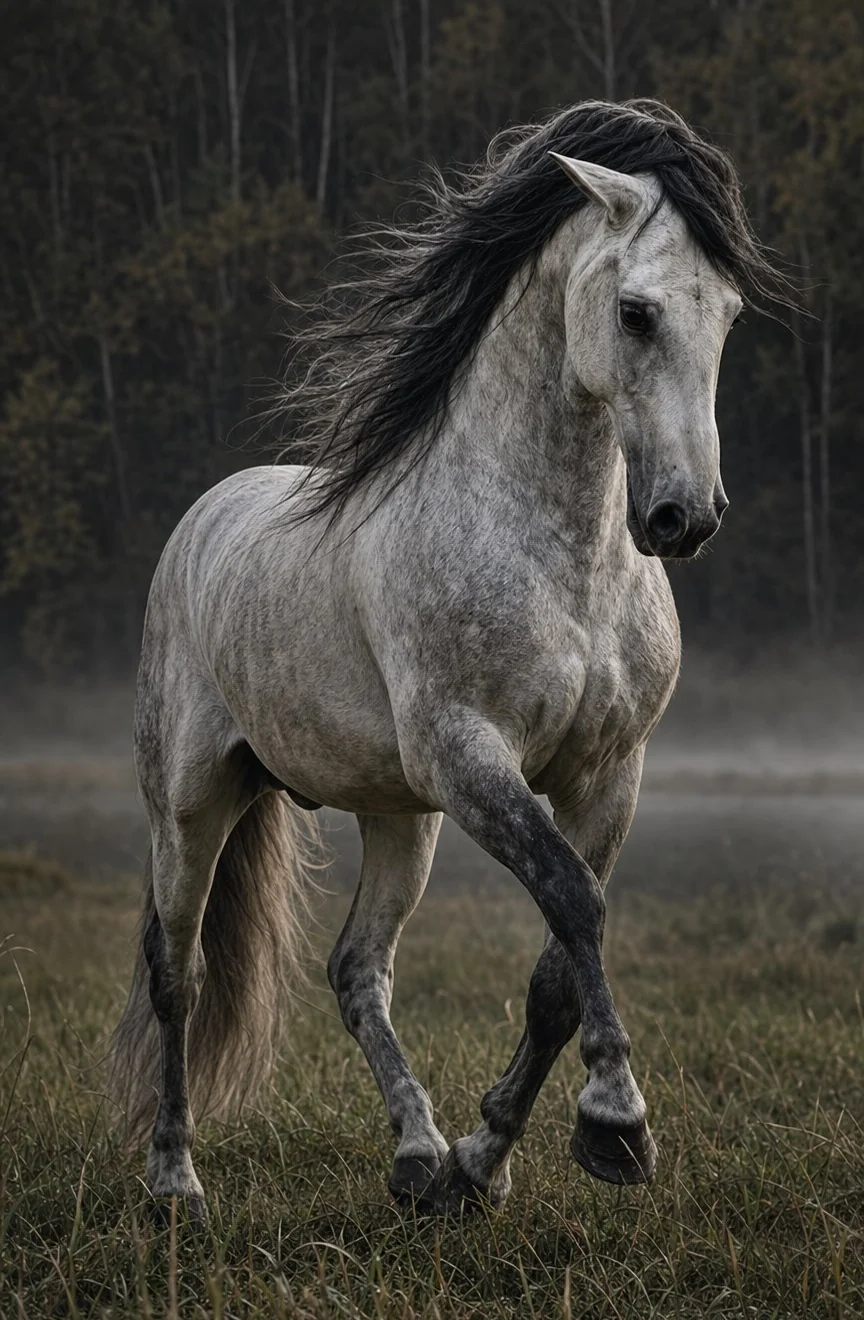
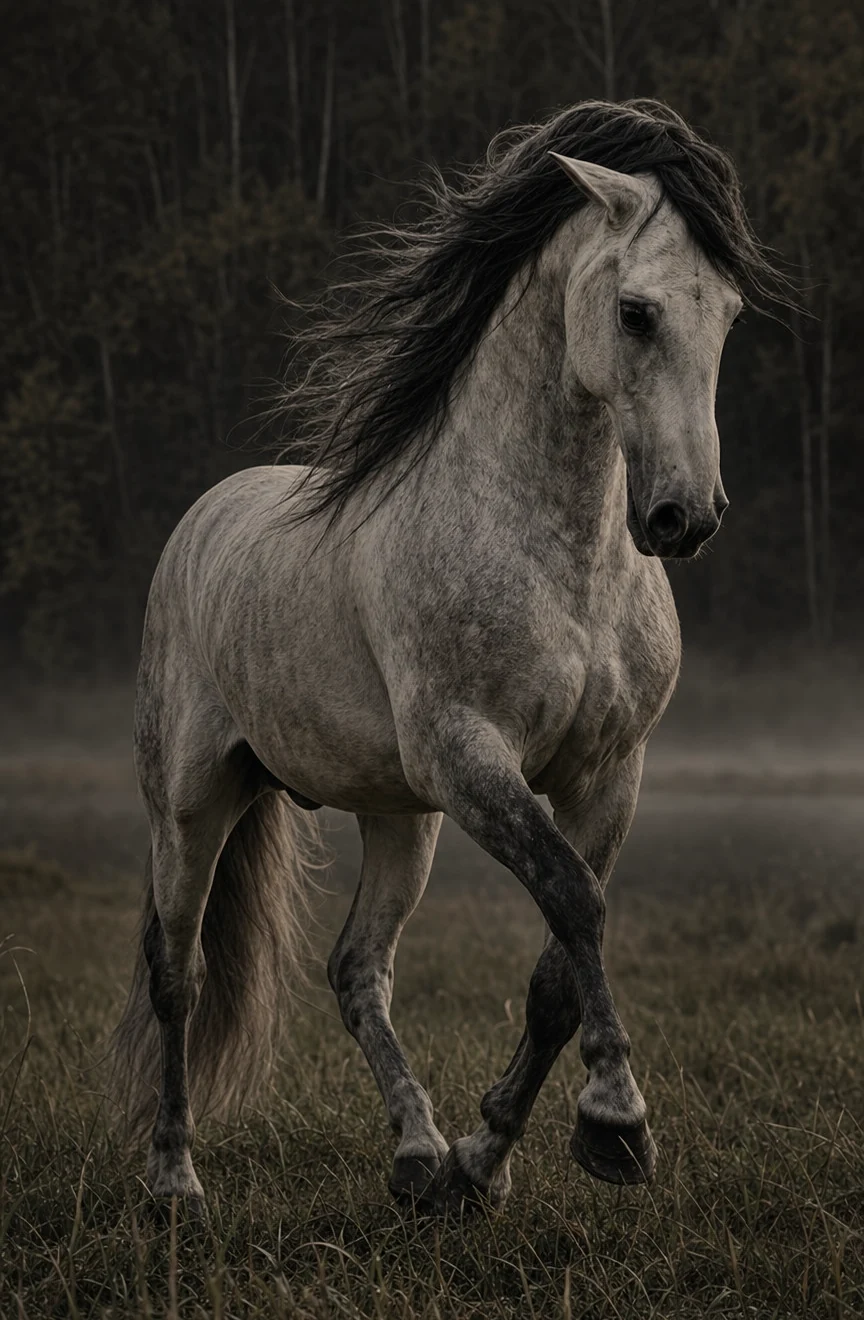
закончили

diff --git a/index.html b/index.html
@@ -305,7 +305,7 @@
           data-origin="Испанские документы, допуск в разведение"
           data-place="Свердловская область">
           <span class="horse-image-wrap">
-            <img src="assets/bucefalo-02.jpg" alt="Вороной андалузский жеребец в осеннем поле" width="1080" height="1174" loading="lazy">
+            <img src="assets/horse-aleko.webp" alt="Вороной андалузский жеребец в осеннем поле" width="939" height="1174" loading="lazy">
             <span class="corner-frame" aria-hidden="true"></span>
           </span>
           <span class="horse-card-copy">
@@ -329,7 +329,7 @@
           data-origin="Андалузская линия"
           data-place="Подмосковье">
           <span class="horse-image-wrap">
-            <img src="assets/breeding-03.jpg" alt="Буланый андалузский жеребец в поле" width="851" height="851" loading="lazy">
+            <img src="assets/horse-novilero.webp" alt="Буланый андалузский жеребец в профиль на пастбище" width="1122" height="1402" loading="lazy">
             <span class="corner-frame" aria-hidden="true"></span>
           </span>
           <span class="horse-card-copy">
@@ -353,7 +353,7 @@
           data-origin="уточняется"
           data-place="Тульская область">
           <span class="horse-image-wrap">
-            <img src="assets/breeding-02.jpg" alt="Чубарая молодая кобыла в поле" width="1000" height="1000" loading="lazy">
+            <img src="assets/horse-dalli.webp" alt="Чубарая молодая кобыла в профиль на пастбище" width="1122" height="1402" loading="lazy">
             <span class="corner-frame" aria-hidden="true"></span>
           </span>
           <span class="horse-card-copy">

diff --git a/ASSET_PROMPTS.md b/ASSET_PROMPTS.md
@@ -198,16 +198,54 @@ Avoid: fantasy, fairy-tale glow, saturated sunset, decorative frame
 
 Карточки рисуются в канве 4:5 через `object-fit: contain` на подложке-паспарту, поэтому лошадь всегда видна целиком и исходники могут быть любых пропорций. Свободное поле держим примерно до 25 процентов: если больше, надо не уменьшать лошадь, а вырезать из исходника лишнее небо и траву.
 
-Что сейчас используется: `horse-magnifico.webp` (Магнифико YAD), `bucefalo-02.jpg` (Алеко), `breeding-03.jpg` (Новилеро), `breeding-02.jpg` (Далли).
+Все четыре карточки собраны отдельными файлами `horse-*.webp`. Оригиналы не тронуты и лежат рядом.
 
-`horse-magnifico.webp` - подрезанный кадр из `stallion-motion.jpg` 864x1821. Исходник был вертикалью обойного формата: лошадь в середине, сверху деревья, снизу пустая трава. Обрезан по y 300-1620, оригинал сохранён.
+| Карточка | Файл | Размер | Из чего собран |
+|---|---|---|---|
+| Магнифико YAD | `horse-magnifico.webp` | 864x1320 | кроп `stallion-motion.jpg` по y 300-1620 |
+| Алеко | `horse-aleko.webp` | 939x1174 | кроп `bucefalo-02.jpg` по x 37-976 |
+| Новилеро | `horse-novilero.webp` | 1122x1402 | новая генерация |
+| Далли | `horse-dalli.webp` | 1122x1402 | новая генерация |
 
-Два кадра требуют замены:
+### Единый грейд каталога
 
-- **Новилеро, `breeding-03.jpg`** - круп, задние ноги и хвост обрезаны в самом файле-исходнике. Вёрсткой это не лечится, нужна другая фотография с лошадью целиком.
-- **Далли, `breeding-02.jpg`** - в левом верхнем углу вотермарка стороннего фотографа. Для коммерческого сайта нужна либо лицензия, либо другой кадр.
+Исходники были из четырёх разных съёмок и рядом не читались как серия: Алеко приходил с яркостью 99, насыщенностью 48 и теплом +62 - рыжая осень против приглушённого серо-зелёного у остальных.
 
-Требования к замене: лошадь целиком от ушей до копыт, запас по краям, ровный горизонт, один грейд со всей съёмкой, никакой посторонней амуниции и техники в кадре, никаких чужих вотермарок.
+Все четыре сведены к общему знаменателю **яркость 49.5, насыщенность 20.5, тепло +13**. Эталоном взята пара новых кадров: они сняты в одну сессию и уже несут нужный грейд.
+
+Сведение сделано скриптом на Pillow: подбор насыщенности, яркости и поканальных коэффициентов R и B итеративно, до попадания в допуск. При замене любого кадра его нужно привести к тем же трём числам, иначе он выпадет из ряда.
+
+### Требования к новым кадрам
+
+Вертикаль, лошадь целиком от ушей до копыт с запасом по всем краям, чистый профиль сбоку, ровная стойка, никакой амуниции, ровный горизонт, приглушённый грейд, никаких чужих вотермарок.
+
+Промпты, по которым сделаны Новилеро и Далли, лежат ниже в разделе «Замена карточек каталога».
+
+### Осталось заменить
+
+Обе фотографии в карточках Магнифико и Алеко - временные: `stallion-motion.jpg` сгенерирован, `bucefalo-02.jpg` взят из архива сайта. Перед публикацией нужны реальные снимки этих двух лошадей.
+
+## Замена карточек каталога
+
+Промпты, по которым сделаны `horse-novilero.webp` и `horse-dalli.webp`. Обе отправлялись в одной сессии после общего стилевого блока, с приложенным `hero-cinematic-v2.webp` как референсом. Если понадобится третья лошадь в том же ряду - берите этот же каркас, иначе кадр не сядет в серию.
+
+Ключевое требование, которое надо повторять дословно: **вся лошадь внутри кадра, ни одна часть не касается края**. Без него генератор стабильно обрезает круп и хвост - ровно так был испорчен предыдущий кадр Новилеро.
+
+```text
+Vertical portrait frame.
+
+A [МАСТЬ] [ПОРОДА] [пол], [возраст], standing calmly in a clean side profile - a conformation shot, the way a stud farm photographs a horse for sale. [ОПИСАНИЕ МАСТИ И СЛОЖЕНИЯ].
+
+He/She stands square and still on level ground, head carried naturally. Not rearing, not galloping, not in motion.
+
+Setting: a mown summer pasture, low green grass, a soft dark treeline far behind and thrown well out of focus. Nothing else in the frame.
+
+Light: flat overcast daylight, gentle, no hard shadows. The horse reads clearly against the darker background.
+
+Critical: the whole horse must be visible with room to spare - the full tail, the hindquarters, the muzzle and all four hooves, none of them touching or crossing the edge of the frame. Keep generous empty space on both sides.
+
+No text, no logos, no watermarks. No people. No saddle, bridle, halter or tack. Anatomically correct: exactly four legs, correct proportions, realistic hooves. Muted palette only: charcoal, smoke grey, deep forest green. No saturated colour, no orange sunset, no lens flare.
+```
 
 ## `assets/og-cover.jpg`
 
